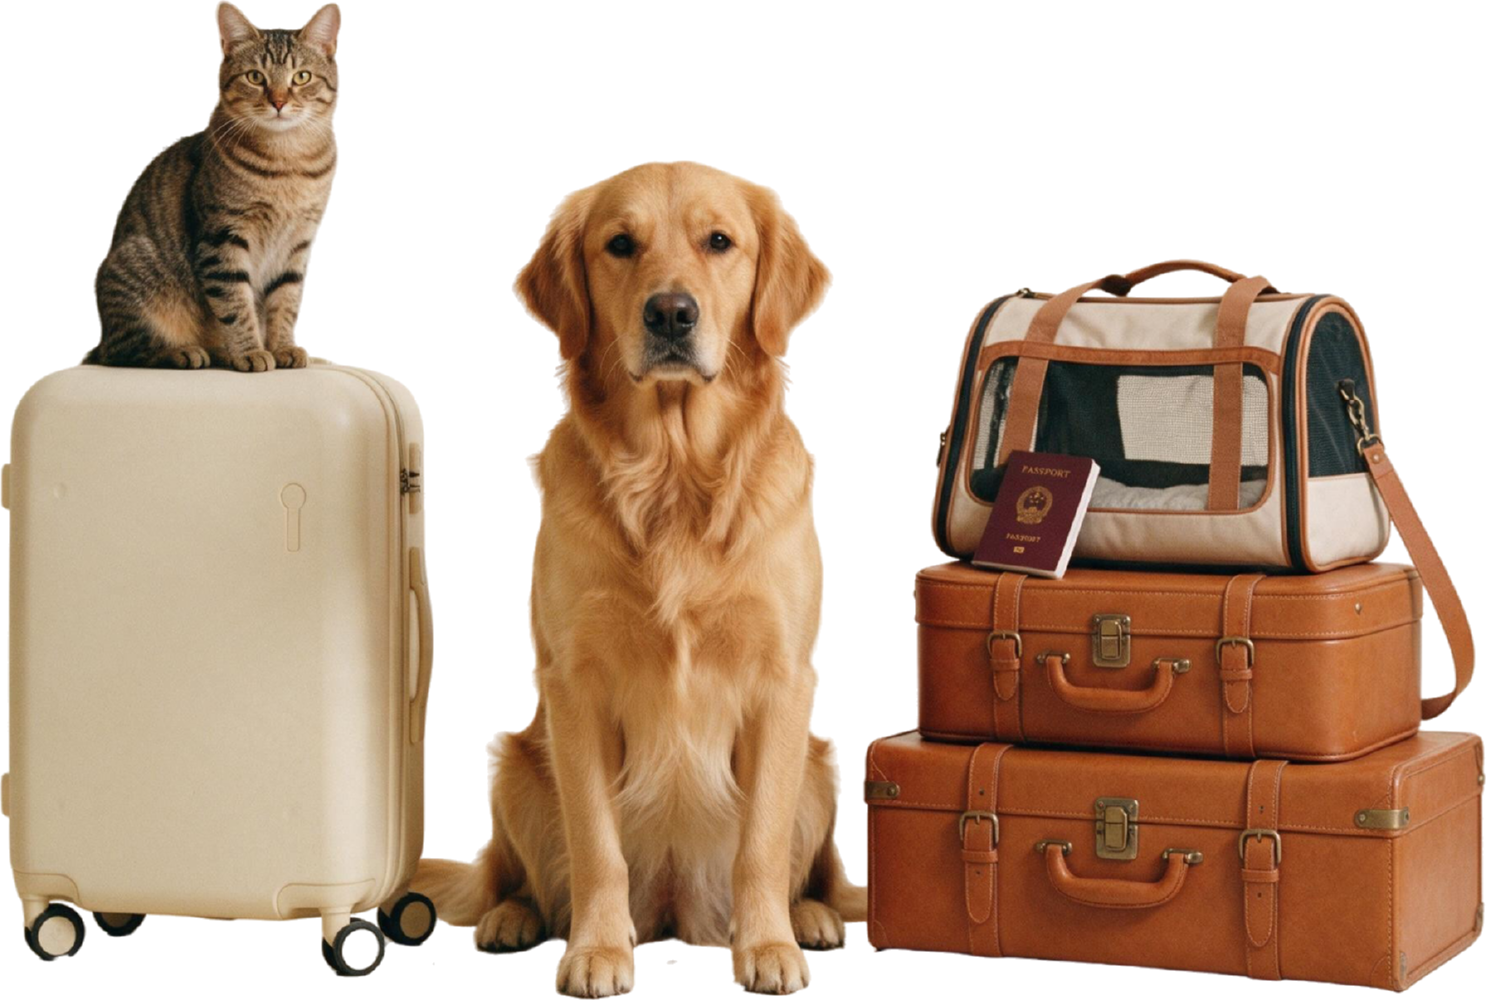
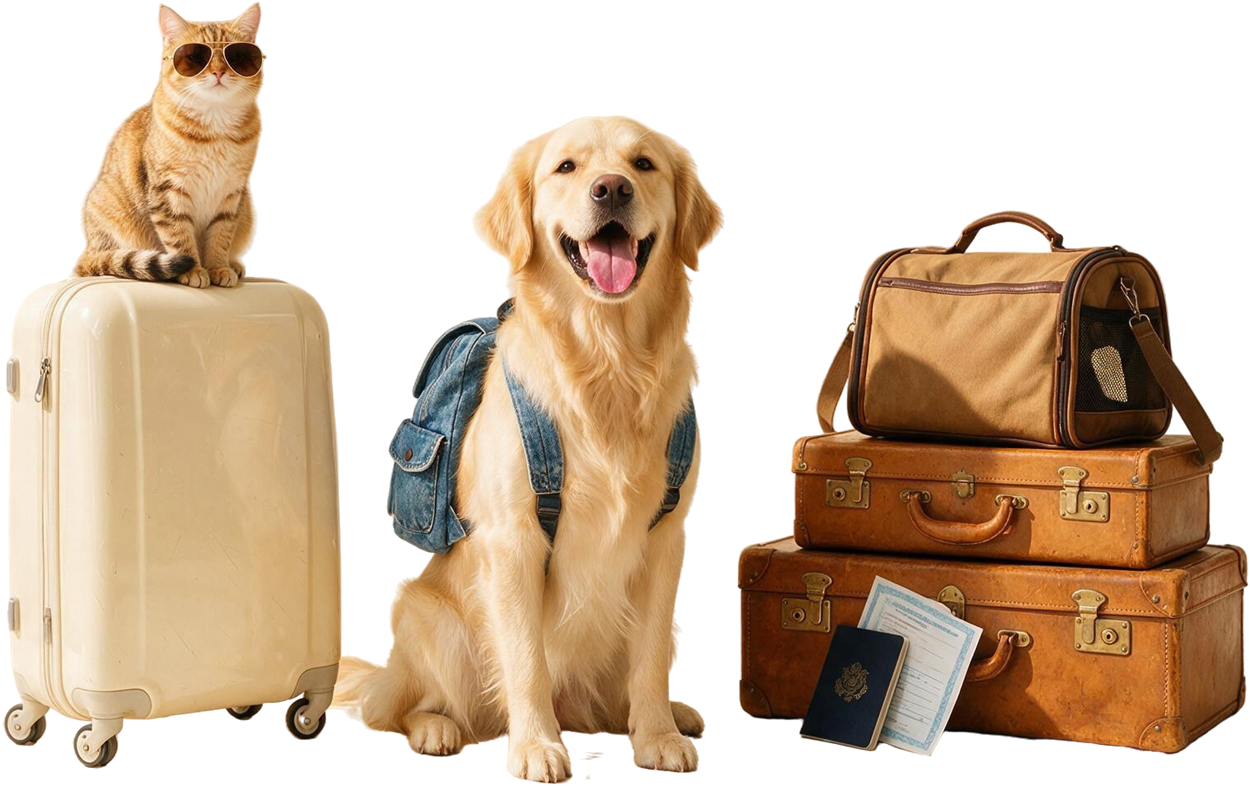
Troca a arte do bloco de display e amplia o carrossel de entregáveis
- Substitui bigtype-cut.png por um cut-out novo (gato de óculos sobre a
  mala, golden de mochila, bagagem com passaporte), recortado nas bordas
  do conteúdo para que a base encoste na linha do chão.
- Adiciona sombra de contato sob o cut-out: sem ela o recorte lia como
  colado, e o reflexo antigo ficava separado da base pela margem
  transparente da arte.
- Aumenta os cards de "O que você recebe" e coloca a legenda sobre um
  painel de vidro (pv-glass-dark) no lugar do gradiente chapado.

Claude-Session: https://claude.ai/code/session_01Skz7pY9JBZJZziMc6KfUrh

diff --git a/src/components/landing/sections-mid.tsx b/src/components/landing/sections-mid.tsx
@@ -183,12 +183,20 @@ export function BigTypeSection() {
           <div aria-hidden="true" className="absolute top-[12%] left-1/2 w-max -translate-x-1/2">
             <span className={DISPLAY_WORD}>PET A VET</span>
           </div>
+          {/*
+            Contact shadow along the floor line. Without it the cut-out reads as
+            pasted on rather than standing on the surface.
+          */}
+          <div
+            aria-hidden="true"
+            className="absolute bottom-[1%] left-1/2 h-[6%] w-[64%] -translate-x-1/2 rounded-[50%] bg-[radial-gradient(closest-side,rgba(69,34,7,0.24),rgba(69,34,7,0))] blur-[4px]"
+          />
           <img
             src={bigtypeCut}
-            alt="Golden retriever entre uma mala com um gato em cima e uma pilha de bagagens com bolsa de transporte e passaporte"
-            width={1487}
-            height={1000}
-            className="absolute bottom-0 left-1/2 h-[88%] w-auto max-w-none -translate-x-1/2 object-contain object-bottom"
+            alt="Golden retriever de mochila entre uma mala com um gato de óculos escuros em cima e uma pilha de bagagens com bolsa de transporte e passaporte"
+            width={1250}
+            height={786}
+            className="absolute bottom-0 left-1/2 h-[76%] w-auto max-w-none -translate-x-1/2 object-contain object-bottom drop-shadow-[0_16px_26px_rgba(69,34,7,0.12)]"
           />
         </div>
 
@@ -202,7 +210,7 @@ export function BigTypeSection() {
             src={bigtypeCut}
             alt=""
             aria-hidden="true"
-            className="pv-mirror absolute top-0 left-1/2 h-[calc(var(--pv-stage)*0.88)] w-auto max-w-none -translate-x-1/2 object-contain"
+            className="pv-mirror absolute top-0 left-1/2 h-[calc(var(--pv-stage)*0.76)] w-auto max-w-none -translate-x-1/2 object-contain"
           />
         </div>
       </div>
@@ -351,11 +359,11 @@ export function IncludedSection() {
       </Reveal>
 
       <Reveal delay={80}>
-        <div ref={trackRef} className="pv-no-scrollbar mt-11 flex gap-3 overflow-x-auto px-6 pb-1">
+        <div ref={trackRef} className="pv-no-scrollbar mt-11 flex gap-4 overflow-x-auto px-6 pb-1">
           {INCLUDED.map((c) => (
             <figure
               key={c.title.join(" ")}
-              className="relative aspect-[238/337] w-[14.5rem] shrink-0 overflow-hidden rounded-[5px] bg-black sm:w-[15.5rem]"
+              className="relative aspect-[238/337] w-[18rem] shrink-0 overflow-hidden rounded-[10px] bg-black sm:w-[21rem] lg:w-[23rem]"
             >
               <img
                 src={c.img}
@@ -363,14 +371,15 @@ export function IncludedSection() {
                 loading="lazy"
                 className="h-full w-full object-cover opacity-95"
               />
-              <div className="absolute inset-0 bg-gradient-to-t from-black/92 via-black/35 to-transparent" />
-              <figcaption className="absolute inset-x-0 bottom-0 px-4 pb-5 text-center">
-                <p className="text-[1.5rem] leading-[1.08] font-normal tracking-[-0.03em] text-white uppercase">
+              <div className="absolute inset-0 bg-gradient-to-t from-black/70 via-black/15 to-transparent" />
+              {/* caption rides on a frosted panel instead of a flat scrim */}
+              <figcaption className="pv-glass-dark absolute inset-x-3 bottom-3 rounded-[8px] px-4 py-5 text-center">
+                <p className="text-[1.85rem] leading-[1.06] font-normal tracking-[-0.03em] text-white uppercase">
                   {c.title[0]}
                   <br />
                   {c.title[1]}
                 </p>
-                <p className="mt-3 text-[0.5rem] tracking-[0.32em] text-white/65 uppercase">
+                <p className="mt-3 text-[0.62rem] tracking-[0.32em] text-white/75 uppercase">
                   Pet a Vet
                 </p>
               </figcaption>

diff --git a/src/styles.css b/src/styles.css
@@ -282,6 +282,22 @@
     0 12px 34px -18px rgb(69 34 7 / 0.4);
 }
 
+/* Dark variant, for glass sitting over a photograph. */
+@utility pv-glass-dark {
+  background: linear-gradient(
+    150deg,
+    rgb(255 255 255 / 0.24) 0%,
+    rgb(255 255 255 / 0.08) 52%,
+    rgb(124 212 228 / 0.12) 100%
+  );
+  backdrop-filter: blur(18px) saturate(1.4);
+  -webkit-backdrop-filter: blur(18px) saturate(1.4);
+  border: 1px solid rgb(255 255 255 / 0.3);
+  box-shadow:
+    inset 0 1px 0 rgb(255 255 255 / 0.4),
+    0 10px 30px -18px rgb(0 0 0 / 0.65);
+}
+
 /* Same treatment tuned for the cream-2 band, where the surface is warmer. */
 @utility pv-glass-warm {
   background: linear-gradient(
